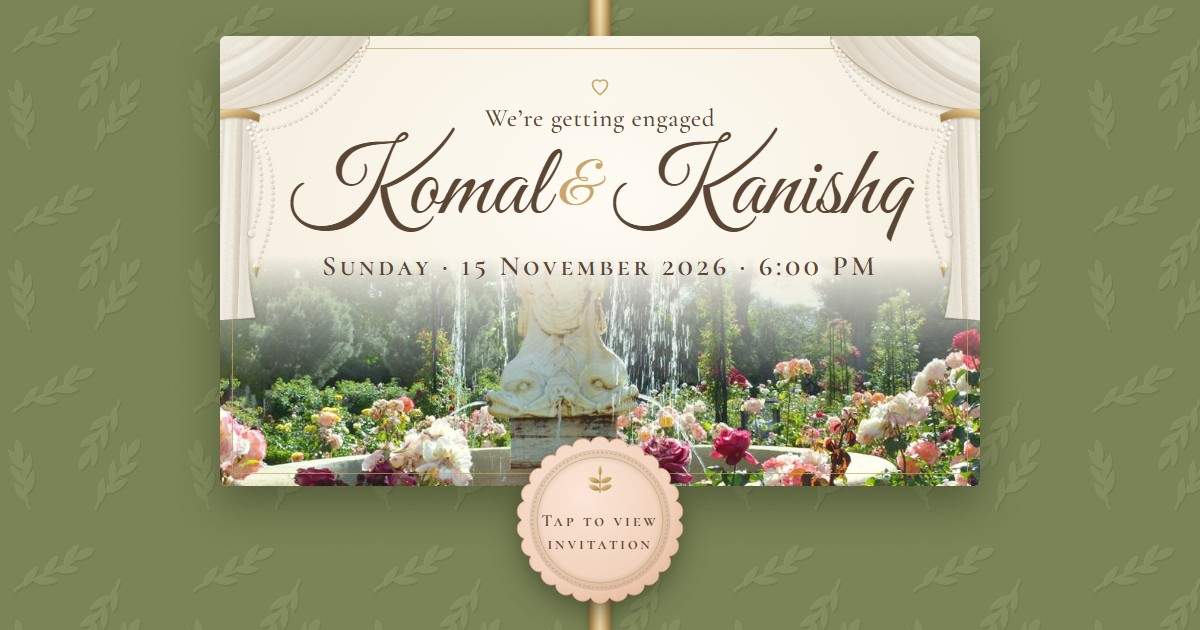
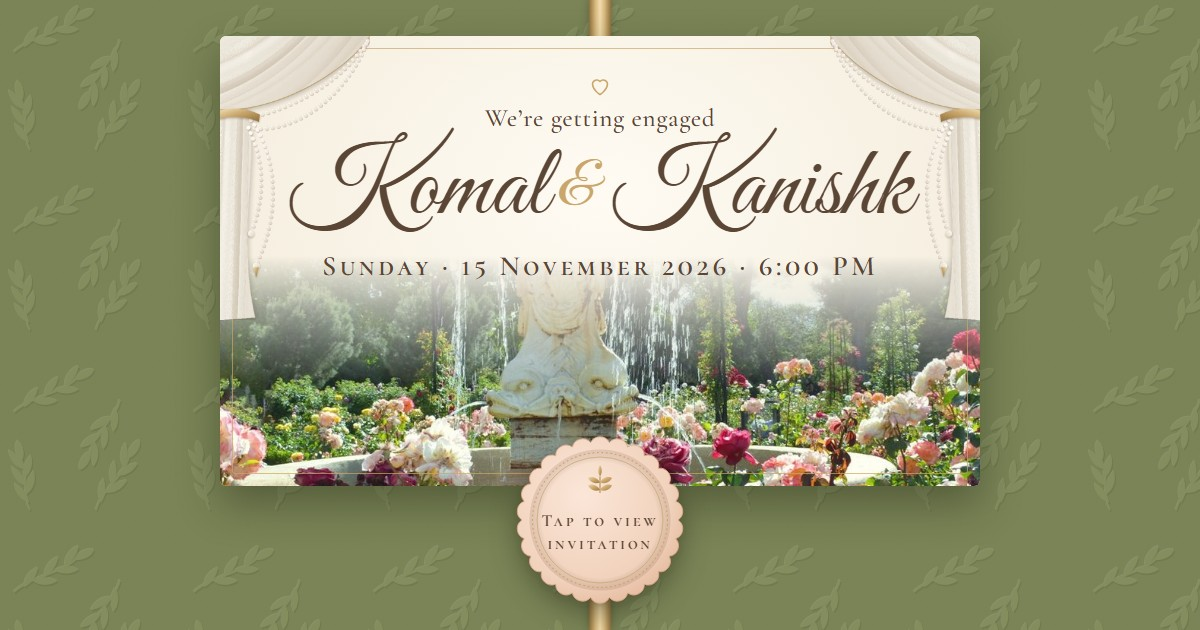
Correct groom's name spelling to Kanishk

diff --git a/index.html b/index.html
@@ -3,14 +3,14 @@
 <head>
   <meta charset="utf-8">
   <meta name="viewport" content="width=device-width, initial-scale=1, viewport-fit=cover">
-  <title>Komal &amp; Kanishq · Engagement Invitation</title>
-  <meta name="description" content="You are warmly invited to the engagement of Komal &amp; Kanishq on Sunday, 15 November 2026 at Miraya Blu, Faridabad.">
+  <title>Komal &amp; Kanishk · Engagement Invitation</title>
+  <meta name="description" content="You are warmly invited to the engagement of Komal &amp; Kanishk on Sunday, 15 November 2026 at Miraya Blu, Faridabad.">
   <meta name="theme-color" content="#7a8456">
   <script>document.documentElement.className = 'js locked';</script>
 
   <!-- Link preview (WhatsApp / Facebook / X). og:image MUST be an absolute https URL. -->
   <meta property="og:type" content="website">
-  <meta property="og:title" content="Komal &amp; Kanishq · Engagement Invitation">
+  <meta property="og:title" content="Komal &amp; Kanishk · Engagement Invitation">
   <meta property="og:description" content="Sunday, 15 November 2026 · 6:00 PM · Miraya Blu, Faridabad. Tap to open the invitation.">
   <meta property="og:url" content="https://komalkanishq.github.io/">
   <meta property="og:image" content="https://komalkanishq.github.io/preview.jpg">
@@ -18,9 +18,9 @@
   <meta property="og:image:type" content="image/jpeg">
   <meta property="og:image:width" content="1200">
   <meta property="og:image:height" content="630">
-  <meta property="og:image:alt" content="Komal &amp; Kanishq engagement invitation">
+  <meta property="og:image:alt" content="Komal &amp; Kanishk engagement invitation">
   <meta name="twitter:card" content="summary_large_image">
-  <meta name="twitter:title" content="Komal &amp; Kanishq · Engagement Invitation">
+  <meta name="twitter:title" content="Komal &amp; Kanishk · Engagement Invitation">
   <meta name="twitter:description" content="Sunday, 15 November 2026 · 6:00 PM · Miraya Blu, Faridabad. Tap to open the invitation.">
   <meta name="twitter:image" content="https://komalkanishq.github.io/preview.jpg">
 
@@ -64,11 +64,11 @@
       <div class="hero-text">
         <svg class="hero-heart" aria-hidden="true"><use href="#i-heart"/></svg>
         <p class="kicker">We’re getting engaged</p>
-        <h1 class="sr-only">Komal &amp; Kanishq</h1>
+        <h1 class="sr-only">Komal &amp; Kanishk</h1>
         <p class="name">Komal</p>
         <p class="who">Daughter of Smt.&nbsp;Manju&nbsp;Saini &amp; Sri.&nbsp;Rajesh&nbsp;Saini</p>
         <p class="amp">&amp;</p>
-        <p class="name">Kanishq</p>
+        <p class="name">Kanishk</p>
         <p class="who">Son of Smt.&nbsp;Sarika&nbsp;Saini &amp; Sri.&nbsp;Ajesh&nbsp;Saini</p>
       </div>
       <div class="scene">
@@ -83,7 +83,7 @@
     <!-- 3. Welcome -->
     <section class="sec welcome reveal">
       <div class="hr"><svg><use href="#i-heart-f"/></svg></div>
-      <p>We are honored to welcome you to the engagement ceremony of Komal &amp; Kanishq. As they take the first step towards a lifetime together, we thank you for being part of this blessed occasion ♥</p>
+      <p>We are honored to welcome you to the engagement ceremony of Komal &amp; Kanishk. As they take the first step towards a lifetime together, we thank you for being part of this blessed occasion ♥</p>
       <div class="hr"><svg><use href="#i-heart-f"/></svg></div>
     </section>
 
@@ -161,7 +161,7 @@
     </section>
 
     <footer class="foot">
-      <p class="foot-names">Komal &amp; Kanishq</p>
+      <p class="foot-names">Komal &amp; Kanishk</p>
       <p>With love and blessings</p>
     </footer>
   </div>

diff --git a/email-snippet.html b/email-snippet.html
@@ -1,6 +1,6 @@
 <!-- Paste into an email composer that accepts HTML. The whole image is a link. -->
 <a href="https://komalkanishq.github.io/" target="_blank" style="display:inline-block;text-decoration:none;">
-  <img src="https://komalkanishq.github.io/invite-card.jpg" alt="Komal &amp; Kanishq wedding invitation. Tap to open." width="540" style="display:block;width:100%;max-width:540px;height:auto;border:0;">
+  <img src="https://komalkanishq.github.io/invite-card.jpg" alt="Komal &amp; Kanishk wedding invitation. Tap to open." width="540" style="display:block;width:100%;max-width:540px;height:auto;border:0;">
 </a>
 <p style="font-family:Georgia,serif;font-size:16px;color:#2f3b2a;">
   <a href="https://komalkanishq.github.io/" target="_blank" style="color:#2f3b2a;">Open the invitation: venue, maps &amp; RSVP &rarr;</a>

diff --git a/script.js b/script.js
@@ -51,7 +51,7 @@
   if (start) {
     var stamp = function (d) { return d.toISOString().replace(/[-:]/g, '').replace(/\.\d{3}/, ''); };
     save.href = 'https://calendar.google.com/calendar/render?action=TEMPLATE' +
-      '&text=' + encodeURIComponent('Komal & Kanishq’s Engagement') +
+      '&text=' + encodeURIComponent('Komal & Kanishk’s Engagement') +
       '&dates=' + stamp(start) + '/' + stamp(end) +
       (filled(cfg.mapQuery) ? '&location=' + encodeURIComponent(cfg.mapQuery) : '') +
       '&details=' + encodeURIComponent(location.href.split(/[?#]/)[0]);

diff --git a/README.md b/README.md
@@ -1,4 +1,4 @@
-# Komal & Kanishq: wedding invitation
+# Komal & Kanishk: wedding invitation
 
 Live at **https://komalkanishq.github.io/** (GitHub Pages, served from `main` / root).
 
